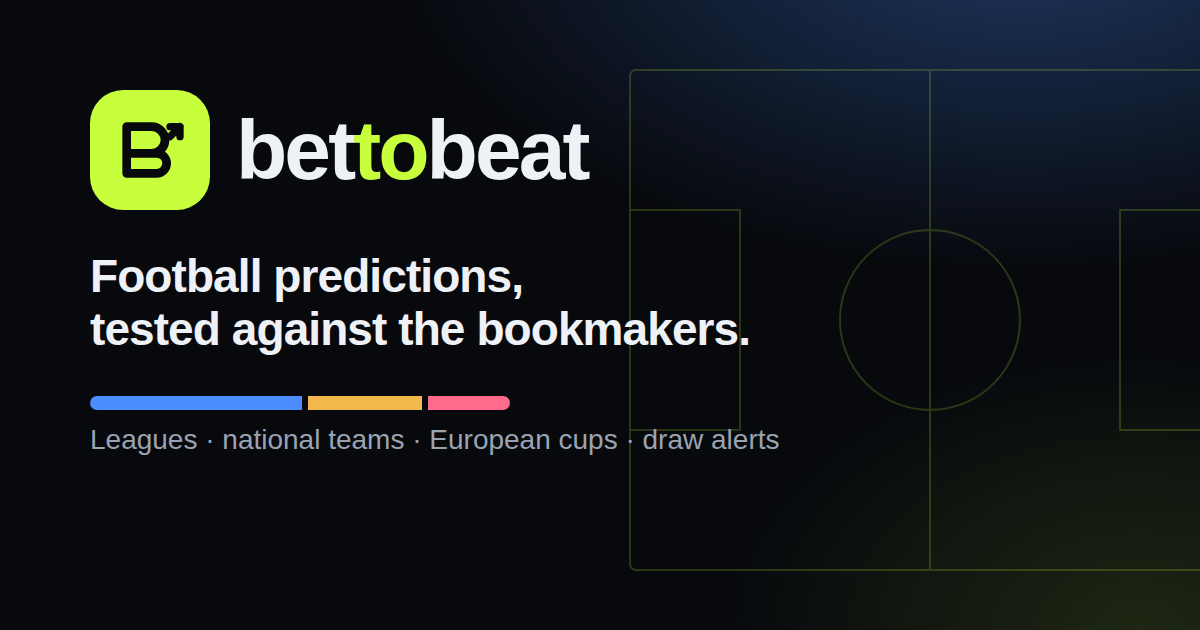
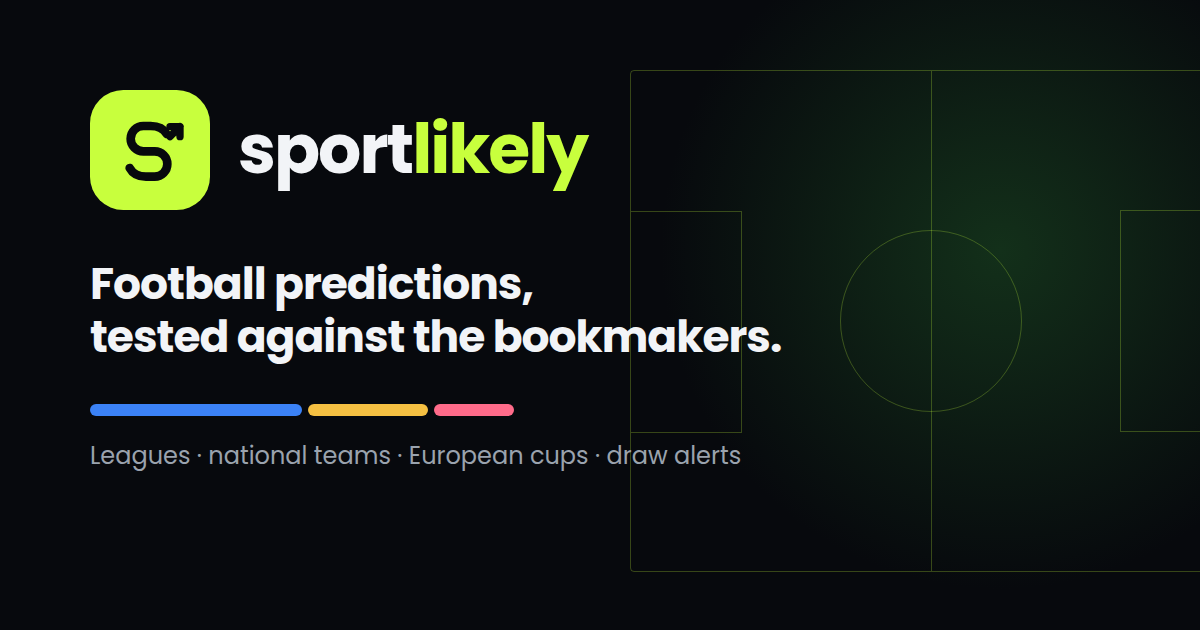
Rebrand to SportLikely (sportlikely.com)

diff --git a/backend/src/services/email.ts b/backend/src/services/email.ts
@@ -1,7 +1,7 @@
 /**
  * Outgoing email (verification codes, password reset).
  * Provider: Resend (RESEND_API_KEY) or Brevo (BREVO_API_KEY). From address: EMAIL_FROM,
- * e.g. "Bet To Beat <no-reply@bettobeat.com>" — the domain must be verified with the provider.
+ * e.g. "SportLikely <no-reply@sportlikely.com>" — the domain must be verified with the provider.
  * With no provider configured, email is off and sign-ups are not asked for a code.
  */
 import axios from 'axios';
@@ -9,14 +9,14 @@ import logger from '../utils/logger';
 
 const RESEND_KEY = process.env.RESEND_API_KEY || '';
 const BREVO_KEY = process.env.BREVO_API_KEY || '';
-const FROM = process.env.EMAIL_FROM || 'Bet To Beat <no-reply@bettobeat.com>';
+const FROM = process.env.EMAIL_FROM || 'SportLikely <no-reply@sportlikely.com>';
 
 export const emailProvider: 'resend' | 'brevo' | null = RESEND_KEY ? 'resend' : BREVO_KEY ? 'brevo' : null;
 export const emailEnabled = !!emailProvider;
 
 function parseFrom(from: string): { name: string; email: string } {
   const m = from.match(/^\s*(.*?)\s*<([^>]+)>\s*$/);
-  return m ? { name: m[1] || 'Bet To Beat', email: m[2] } : { name: 'Bet To Beat', email: from.trim() };
+  return m ? { name: m[1] || 'SportLikely', email: m[2] } : { name: 'SportLikely', email: from.trim() };
 }
 
 export async function sendEmail(to: string, subject: string, html: string, text: string): Promise<void> {
@@ -39,7 +39,7 @@ export async function sendEmail(to: string, subject: string, html: string, text:
 
 /* ---------- shared look for every email we send ---------- */
 
-export const SITE = `https://${process.env.CANONICAL_HOST || 'bettobeat.com'}`;
+export const SITE = `https://${process.env.CANONICAL_HOST || 'sportlikely.com'}`;
 export const C = { ink: '#111419', muted: '#646c78', faint: '#969da8', line: '#e2e5ea', soft: '#f4f5f7', chip: '#f0f2f5', green: '#10a35a', amber: '#d98a06', red: '#d64545' };
 export const esc = (x: unknown) => String(x ?? '').replace(/&/g, '&amp;').replace(/</g, '&lt;').replace(/>/g, '&gt;').replace(/"/g, '&quot;');
 
@@ -62,7 +62,7 @@ export function layout(o: { preheader: string; label?: string; body: string; cta
     ${o.body}
     ${btn}
   </table>
-  <p style="max-width:560px;font-size:11px;line-height:1.5;color:${C.faint};margin:16px auto 0">${o.footer ? `${o.footer}<br>` : ''}Bet To Beat · <a href="${SITE}" style="color:${C.faint}">bettobeat.com</a></p>
+  <p style="max-width:560px;font-size:11px;line-height:1.5;color:${C.faint};margin:16px auto 0">${o.footer ? `${o.footer}<br>` : ''}SportLikely · <a href="${SITE}" style="color:${C.faint}">sportlikely.com</a></p>
 </td></tr></table></body></html>`;
 }
 
@@ -82,28 +82,28 @@ function codeEmail(title: string, intro: string, code: string, outro: string) {
         <p style="font-size:13px;line-height:1.5;color:#646c78;margin:20px 0 24px">${outro}</p>
       </td></tr>
     </table>
-    <p style="font-size:11px;color:#969da8;margin-top:16px">Bet To Beat · bettobeat.com</p>
+    <p style="font-size:11px;color:#969da8;margin-top:16px">SportLikely · sportlikely.com</p>
   </td></tr></table></body></html>`;
-  const text = `${title}\n\n${intro}\n\n${code}\n\n${outro}\n\nBet To Beat · bettobeat.com`;
+  const text = `${title}\n\n${intro}\n\n${code}\n\n${outro}\n\nSportLikely · sportlikely.com`;
   return { html, text };
 }
 
 export function sendVerificationCode(to: string, code: string) {
   const { html, text } = codeEmail(
     'Confirm your email',
-    'Enter this code on Bet To Beat to confirm your email address:',
+    'Enter this code on SportLikely to confirm your email address:',
     code,
     'The code is valid for 10 minutes. If you didn’t create an account, you can ignore this email.'
   );
-  return sendEmail(to, `${code} is your Bet To Beat code`, html, text);
+  return sendEmail(to, `${code} is your SportLikely code`, html, text);
 }
 
 export function sendResetCode(to: string, code: string) {
   const { html, text } = codeEmail(
     'Reset your password',
-    'Enter this code on Bet To Beat to choose a new password:',
+    'Enter this code on SportLikely to choose a new password:',
     code,
     'The code is valid for 10 minutes. If you didn’t ask to reset your password, you can ignore this email — your password stays the same.'
   );
-  return sendEmail(to, `${code} is your Bet To Beat reset code`, html, text);
+  return sendEmail(to, `${code} is your SportLikely reset code`, html, text);
 }

diff --git a/frontend/src/App.tsx b/frontend/src/App.tsx
@@ -33,7 +33,7 @@ export function LogoMark({ size = 36 }: { size?: number }) {
   return (
     <svg width={size} height={size} viewBox="0 0 36 36" aria-hidden className="flex-shrink-0">
       <rect width="36" height="36" rx="10" fill="#C8FF3D" />
-      <path d="M11 25V11h7.5a4 4 0 0 1 0 8H11m7.5 0H20a3 3 0 0 1 0 6h-9" fill="none" stroke="#07090D" strokeWidth="2.6" strokeLinecap="round" strokeLinejoin="round" />
+      <path d="M23 13.2c-.9-1.6-2.6-2.4-4.8-2.4H16a3.8 3.8 0 0 0 0 7.6h3.4a3.8 3.8 0 0 1 0 7.6h-2.6c-2.3 0-4-.9-4.9-2.6" fill="none" stroke="#07090D" strokeWidth="2.6" strokeLinecap="round" strokeLinejoin="round" />
       <path d="M24 14l3-3m0 0h-3m3 0v3" fill="none" stroke="#07090D" strokeWidth="2.2" strokeLinecap="round" strokeLinejoin="round" />
     </svg>
   )
@@ -41,10 +41,10 @@ export function LogoMark({ size = 36 }: { size?: number }) {
 
 function Logo() {
   return (
-    <Link to="/" className="flex items-center gap-2.5 group shrink-0 whitespace-nowrap" aria-label={tt("Bet To Beat home")}>
+    <Link to="/" className="flex items-center gap-2.5 group shrink-0 whitespace-nowrap" aria-label={tt("SportLikely home")}>
       <LogoMark />
       <span className="hidden min-[380px]:inline lg:hidden xl:inline font-display font-bold text-lg tracking-tight text-ink">
-        bet<span className="text-accent">to</span>beat</span>
+        sport<span className="text-accent">likely</span></span>
     </Link>
   )
 }
@@ -131,7 +131,7 @@ function UnlocksBanner() {
           {u.left === 0 ? (
             <>{tt("You've used all {0} unlocks this month. They renew on {1}.", { 0: u.allowance, 1: resetDay(u.resetsAt) })}</>
           ) : (
-            <><b className="num">{u.left}</b> {tt("{n, plural, one {unlock} other {unlocks}} left this month. You're using Bet To Beat a lot.", { n: u.left })}</>
+            <><b className="num">{u.left}</b> {tt("{n, plural, one {unlock} other {unlocks}} left this month. You're using SportLikely a lot.", { n: u.left })}</>
           )}
         </span>
         <Link to="/premium" className="px-3 py-1 rounded-lg bg-accent text-bg text-xs font-extrabold">
@@ -267,7 +267,7 @@ function PageTitle() {
   useEffect(() => {
     applyHeadLang(loc.pathname)
     const t = TITLES.find(([re]) => re.test(loc.pathname))?.[1]
-    document.title = t && t !== 'Home' ? tt("{0} · Bet To Beat", { 0: t }) : tt("Bet To Beat · Football predictions, tested in public")
+    document.title = t && t !== 'Home' ? tt("{0} · SportLikely", { 0: t }) : tt("SportLikely · Football predictions, tested in public")
   }, [loc.pathname])
   return null
 }
@@ -389,7 +389,7 @@ function Shell() {
             <span className="ml-auto"><LangSwitch compact /></span>
           </div>
           <p>
-            {tt("Bet To Beat · predictions are probabilities, not promises. Information only, not betting advice. 18+. If gambling stops being fun, stop and")}{' '}
+            {tt("SportLikely · predictions are probabilities, not promises. Information only, not betting advice. 18+. If gambling stops being fun, stop and")}{' '}
             <a href="https://www.begambleaware.org" target="_blank" rel="noreferrer" className="underline hover:text-ink">{tt("get help")}</a>.
           </p>
           <p>{tt("Data: Football-Data.org, API-Football, football-data.co.uk, Transfermarkt (squad values).")}</p>

diff --git a/backend/src/services/assistant.ts b/backend/src/services/assistant.ts
@@ -27,7 +27,7 @@ db.exec(`
 
 function siteGuide() {
   const premium = PLANS.find(p => p.id === 'premium'), pro = PLANS.find(p => p.id === 'pro'), proYear = PLANS.find(p => p.id === 'pro-year');
-  return `Bet To Beat is a football prediction site. For every match it gives the chance of a home win, draw and away win, expected goals, over/under 2.5 and both-teams-to-score, with the reasons behind the pick.
+  return `SportLikely is a football prediction site. For every match it gives the chance of a home win, draw and away win, expected goals, over/under 2.5 and both-teams-to-score, with the reasons behind the pick.
 How the model works (v3): each team is scored 1–10 within its league on squad market value (Transfermarkt), overall strength (an Elo rating from every result, bigger wins count more), confirmed line-up vs the usual line-up, missing players, attack and defence against teams of that level, freshness (games in the last 8 days), home/away record and head-to-head (only with 3+ meetings). The difference between the two sides sets the home/away split; the draw chance starts from a goals model. National teams and European cups have their own engines. Weights were fitted on the 2024-25 and 2025-26 seasons and checked on 2026-27.
 Record: every prediction is saved before kick-off and scored after the game; the Accuracy page shows the record and never edits past predictions. "Strong pick" = our favourite at 60% or more. "Double chance" = the pick or a draw.
 Plans: Free accounts get ${FREE_WEEKLY_UNLOCKS} free match unlocks a week (reset Monday). Premium $${premium?.price}/month: ${premium?.unlocks} match unlocks a month. Pro $${pro?.price}/month (or $${proYear?.price}/year): every prediction in full, draw picks, team analysis. Payments on the Premium page.
@@ -35,7 +35,7 @@ Pages: Home, Matches (filter by league, "My favorites"), match page tabs (Predic
 The site shows no bookmaker odds and gives no betting advice. Predictions are probabilities, not promises. 18+. If gambling stops being fun, stop and get help (begambleaware.org).`;
 }
 
-const SYSTEM = (ctx: string) => `You are the assistant of Bet To Beat, a football prediction site. Be friendly, clear and brief: usually 2–5 sentences, plain words, no headings; a short list only when the user asks for several things. Answer in the language the user writes in.
+const SYSTEM = (ctx: string) => `You are the assistant of SportLikely, a football prediction site. Be friendly, clear and brief: usually 2–5 sentences, plain words, no headings; a short list only when the user asks for several things. Answer in the language the user writes in.
 Rules:
 - For anything about a match, our predictions or the site, use ONLY the data in CONTEXT. Quote our numbers exactly as given. If the context does not have it, say so and suggest where on the site to look. Never invent a prediction, statistic, line-up or price.
 - If a prediction is marked locked, do not reveal or guess the percentages: explain that it unlocks with a free weekly pick, Premium or Pro.

diff --git a/backend/src/index.ts b/backend/src/index.ts
@@ -64,7 +64,7 @@ import { MODEL_V3, modelV3Status, runBacktestV3, runBacktestV3All, backtestProgr
 const isDev = (process.env.NODE_ENV || 'development') !== 'production';
 
 // In development accept any local origin (Vite may switch ports, 127.0.0.1 vs localhost, etc.)
-const allowedOrigins = (process.env.CORS_ORIGIN || (isDev ? 'http://localhost:3000' : 'https://bettobeat.com,https://www.bettobeat.com'))
+const allowedOrigins = (process.env.CORS_ORIGIN || (isDev ? 'http://localhost:3000' : 'https://sportlikely.com,https://www.sportlikely.com,https://bettobeat.com,https://www.bettobeat.com'))
   .split(',')
   .map(o => o.trim());
 const corsOrigin = isDev ? true : allowedOrigins;
@@ -131,10 +131,10 @@ app.use((req, _res, next) => {
   next();
 });
 
-// ---------- One address: https://bettobeat.com ----------
-// www.bettobeat.com and plain http go to the canonical https address (301), so links, cookies and search engines
+// ---------- One address: https://sportlikely.com ----------
+// www.sportlikely.com and plain http go to the canonical https address (301), so links, cookies and search engines
 // all use one host. Only requests for our own domain are touched (Railway's internal health checks are not).
-const CANONICAL_HOST = process.env.CANONICAL_HOST || (isDev ? '' : 'bettobeat.com');
+const CANONICAL_HOST = process.env.CANONICAL_HOST || (isDev ? '' : 'sportlikely.com');
 if (CANONICAL_HOST) {
   app.use((req, res, next) => {
     const host = (req.hostname || '').toLowerCase();
@@ -156,7 +156,7 @@ if (SITE_PASSWORD) {
     if (req.path === '/api/health' || PUBLIC_FILES.has(req.path)) return next();
     if (req.headers.authorization === SITE_AUTH) return next();
     if (req.method === 'GET' && req.path.startsWith('/api/') && tokenKind(req.query.token)) return next();
-    res.set('WWW-Authenticate', 'Basic realm="Bet To Beat - private beta", charset="UTF-8"');
+    res.set('WWW-Authenticate', 'Basic realm="SportLikely - private beta", charset="UTF-8"');
     res.status(401).send('Private beta. Sign in to continue.');
   });
   logger.info('Private beta gate enabled (SITE_USER / SITE_PASSWORD)');
@@ -452,7 +452,7 @@ app.post('/api/auth/password', jsonOnly, (req, res) => {
 
 app.get('/api/admin/users.csv', (_req, res) => {
   res.set('Content-Type', 'text/csv; charset=utf-8');
-  res.set('Content-Disposition', `attachment; filename="bettobeat-users-${new Date().toISOString().slice(0, 10)}.csv"`);
+  res.set('Content-Disposition', `attachment; filename="sportlikely-users-${new Date().toISOString().slice(0, 10)}.csv"`);
   res.set('Cache-Control', 'no-store');
   res.send(usersCsv());
 });

diff --git a/frontend/index.html b/frontend/index.html
@@ -5,22 +5,22 @@
     <link rel="icon" type="image/svg+xml" href="/favicon.svg" />
     <link rel="apple-touch-icon" href="/apple-touch-icon.png" />
     <meta name="viewport" content="width=device-width, initial-scale=1.0" />
-    <title>Bet To Beat · Football predictions, tested in public</title>
+    <title>SportLikely · Football predictions, tested in public</title>
     <meta name="description" content="Match predictions for the top leagues, national teams and European cups, live stats, and draw alerts. Every prediction is saved before kick-off and checked against the result, in public." />
     <meta name="theme-color" content="#07090d" />
-    <link rel="canonical" href="https://bettobeat.com/" />
+    <link rel="canonical" href="https://sportlikely.com/" />
     <meta property="og:type" content="website" />
-    <meta property="og:site_name" content="Bet To Beat" />
-    <meta property="og:title" content="Bet To Beat · Football predictions, tested in public" />
+    <meta property="og:site_name" content="SportLikely" />
+    <meta property="og:title" content="SportLikely · Football predictions, tested in public" />
     <meta property="og:description" content="Predictions for leagues, national teams and European cups, live stats and draw alerts. Every pick saved before kick-off." />
-    <meta property="og:url" content="https://bettobeat.com/" />
-    <meta property="og:image" content="https://bettobeat.com/og-image.png" />
+    <meta property="og:url" content="https://sportlikely.com/" />
+    <meta property="og:image" content="https://sportlikely.com/og-image.png" />
     <meta property="og:image:width" content="1200" />
     <meta property="og:image:height" content="630" />
     <meta name="twitter:card" content="summary_large_image" />
-    <meta name="twitter:title" content="Bet To Beat · Football predictions, tested in public" />
+    <meta name="twitter:title" content="SportLikely · Football predictions, tested in public" />
     <meta name="twitter:description" content="Predictions for leagues, national teams and European cups, live stats and draw alerts." />
-    <meta name="twitter:image" content="https://bettobeat.com/og-image.png" />
+    <meta name="twitter:image" content="https://sportlikely.com/og-image.png" />
     <link rel="preconnect" href="https://fonts.googleapis.com" />
     <link rel="preconnect" href="https://fonts.gstatic.com" crossorigin />
     <link

diff --git a/backend/src/services/news.ts b/backend/src/services/news.ts
@@ -36,7 +36,7 @@ const tag = (block: string, name: string) => {
 };
 
 async function fetchFeed(f: { source: string; url: string }): Promise<NewsItem[]> {
-  const res = await fetch(f.url, { signal: AbortSignal.timeout(8000), headers: { 'User-Agent': 'BetToBeat/1.0 (+https://bettobeat.com)' } });
+  const res = await fetch(f.url, { signal: AbortSignal.timeout(8000), headers: { 'User-Agent': 'SportLikely/1.0 (+https://sportlikely.com)' } });
   if (!res.ok) throw new Error(`${f.source}: HTTP ${res.status}`);
   const xml = await res.text();
   const items: NewsItem[] = [];
@@ -80,7 +80,7 @@ async function previewImage(link: string): Promise<string | null> {
   if (ogCache.has(link)) return ogCache.get(link)!;
   let img: string | null = null;
   try {
-    const res = await fetch(link, { signal: AbortSignal.timeout(6000), headers: { 'User-Agent': 'BetToBeat/1.0 (+https://bettobeat.com)' } });
+    const res = await fetch(link, { signal: AbortSignal.timeout(6000), headers: { 'User-Agent': 'SportLikely/1.0 (+https://sportlikely.com)' } });
     if (res.ok) {
       const html = (await res.text()).slice(0, 300_000);
       const m = html.match(/<meta[^>]+(?:property|name)=["'](?:og:image|twitter:image)["'][^>]*content=["']([^"']+)["']/i)

diff --git a/frontend/src/pages/Accessibility.tsx b/frontend/src/pages/Accessibility.tsx
@@ -1,7 +1,7 @@
 import { Link } from 'react-router-dom'
 
 const UPDATED = '6 October 2026'
-const CONTACT = 'accessibility@bettobeat.com' // the accessibility contact (set up the inbox or change the address)
+const CONTACT = 'accessibility@sportlikely.com' // the accessibility contact (set up the inbox or change the address)
 
 /** Accessibility statement (Israeli regulations / IS 5568, EU Accessibility Act), in English and Hebrew. */
 export default function Accessibility() {
@@ -10,7 +10,7 @@ export default function Accessibility() {
       <section className="space-y-4">
         <h1 className="font-display text-3xl sm:text-4xl font-extrabold tracking-tight text-ink">Accessibility statement</h1>
         <p className="text-muted">
-          Bet To Beat wants every visitor to be able to use the site, including people with disabilities. We work to the Israeli
+          SportLikely wants every visitor to be able to use the site, including people with disabilities. We work to the Israeli
           accessibility regulations (Equal Rights for Persons with Disabilities, service accessibility regulations 2013, Israeli
           Standard 5568) and to WCAG 2.1 level AA, which also covers the EU Accessibility Act.
         </p>

diff --git a/frontend/src/pages/Legal.tsx b/frontend/src/pages/Legal.tsx
@@ -1,7 +1,7 @@
 import type { ReactNode } from 'react'
 import { Link } from 'react-router-dom'
 
-const CONTACT = 'contact@bettobeat.com'
+const CONTACT = 'contact@sportlikely.com'
 const UPDATED = '25 September 2026'
 
 function Page({ title, children }: { title: string; children: ReactNode }) {
@@ -32,9 +32,9 @@ const Mail = () => (
 export function Terms() {
   return (
     <Page title="Terms of use">
-      <Section title="What Bet To Beat is">
+      <Section title="What SportLikely is">
         <p>
-          Bet To Beat publishes football statistics and match predictions made by our own models, together with live scores and match
+          SportLikely publishes football statistics and match predictions made by our own models, together with live scores and match
           statistics from third-party data providers. Predictions are probabilities, not promises: any match can end in
           any result.
         </p>

diff --git a/frontend/src/pages/Premium.tsx b/frontend/src/pages/Premium.tsx
@@ -216,7 +216,7 @@ export default function Premium() {
       </div>
 
       <p className="mt-8 text-center text-xs text-faint max-w-xl mx-auto">
-        {t("3-day money-back guarantee on every plan: not for you? Ask within 3 days of paying and you get the full amount back. Unlocked matches stay open. Finished matches are always open on paid plans. Unlocks renew on the 1st of every month. Predictions are probabilities, not promises. Bet To Beat is an analytics service and does not take bets.")}</p>
+        {t("3-day money-back guarantee on every plan: not for you? Ask within 3 days of paying and you get the full amount back. Unlocked matches stay open. Finished matches are always open on paid plans. Unlocks renew on the 1st of every month. Predictions are probabilities, not promises. SportLikely is an analytics service and does not take bets.")}</p>
     </div>
   )
 }

diff --git a/frontend/src/components/Assistant.tsx b/frontend/src/components/Assistant.tsx
@@ -136,7 +136,7 @@ export default function Assistant() {
           <div className="flex items-center gap-3 px-4 py-3 border-b border-line/70 bg-surface2/50">
             <span className="w-8 h-8 rounded-full bg-accent text-bg grid place-items-center font-display font-extrabold">B</span>
             <div className="min-w-0 flex-1">
-              <div className="font-display font-bold text-ink leading-tight">{t("Ask Bet To Beat")}</div>
+              <div className="font-display font-bold text-ink leading-tight">{t("Ask SportLikely")}</div>
               <div className="text-[11px] text-faint truncate">{matchId ? t("Knows this match: our prediction, form, line-ups, H2H") : t("About our predictions, the site and football")}</div>
             </div>
             {msgs.length > 0 && (

diff --git a/frontend/src/lib/i18n.ts b/frontend/src/lib/i18n.ts
@@ -2,7 +2,7 @@
  * Languages. English is the source text: every visible string is written in English in the code and passed through
  * t(); the other languages are dictionaries in src/locales/<lang>.json keyed by the English text.
  *
- * The language is part of the address (bettobeat.com/es/...), so search engines index each language separately.
+ * The language is part of the address (sportlikely.com/es/...), so search engines index each language separately.
  * It is fixed for the page load: switching language navigates to the same page under the other prefix.
  * Placeholders: {0}, {1} or {name}. Plurals in a translation: "{n, plural, one {# partido} other {# partidos}}".
  */

diff --git a/frontend/src/pages/MatchDetail.tsx b/frontend/src/pages/MatchDetail.tsx
@@ -366,10 +366,10 @@ function MatchDetail() {
     load(true)
   }, [matchId])
 
-  // browser tab: "Arsenal vs Chelsea · Bet To Beat"
+  // browser tab: "Arsenal vs Chelsea · SportLikely"
   const tabTitle = details ? `${details.match.homeTeam.shortName || details.match.homeTeam.name} vs ${details.match.awayTeam.shortName || details.match.awayTeam.name}` : ''
   useEffect(() => {
-    if (tabTitle) document.title = tt("{0} · Bet To Beat", { 0: tabTitle })
+    if (tabTitle) document.title = tt("{0} · SportLikely", { 0: tabTitle })
   }, [tabTitle])
 
   // Live scores arrive over the socket; full details (events, lineups) are re-fetched on a timer:
